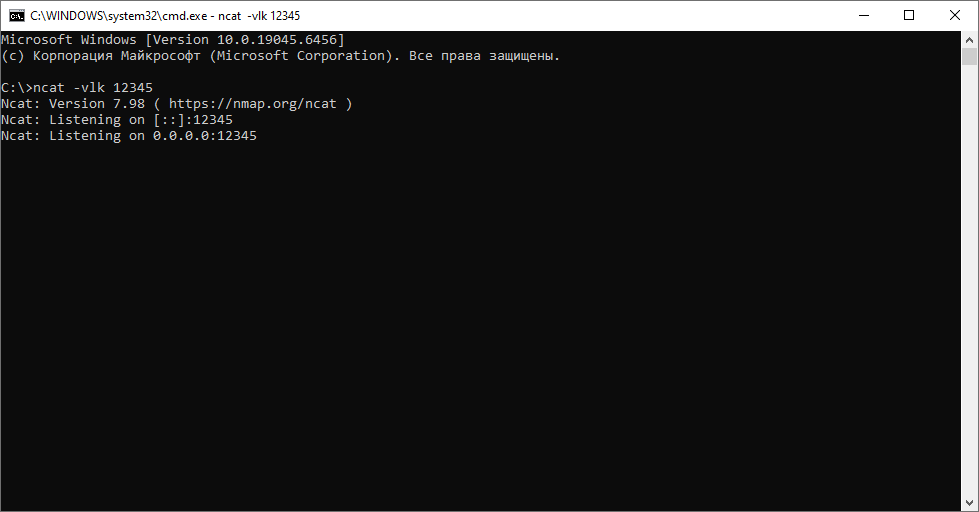
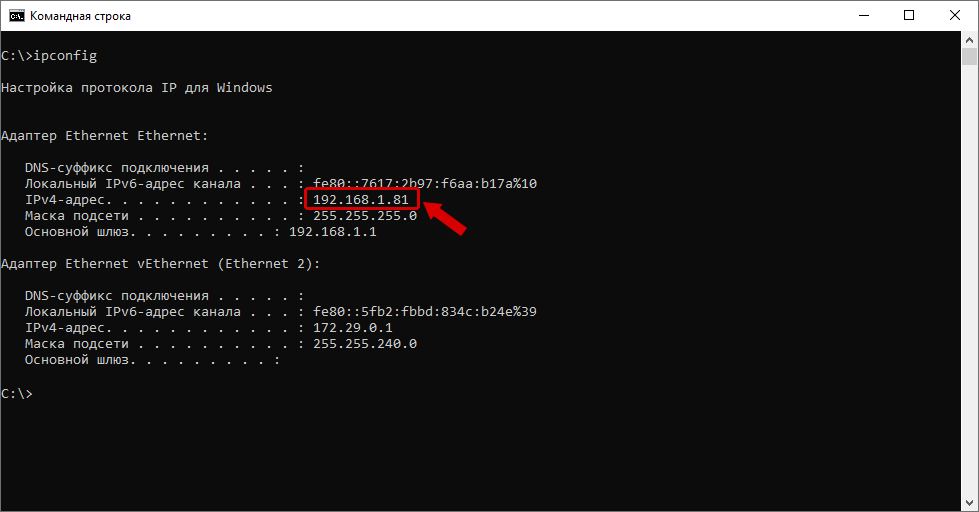
feat: 3.1 wi-fi - images

diff --git a/3.1. Wi-Fi/readme.md b/3.1. Wi-Fi/readme.md
@@ -476,7 +476,7 @@ nc -vlk 12345
 ``` bash
 ncat -vlk 12345
 ```
-![Запуск TCP-сервера Ncat в Windows](img/windows_ncat_listen.png)
+![Запуск TCP-сервера Ncat в Windows](img/windows_ncat.png)
 
 
 Будет запущен TCP-сервер, ожидающий подключения на порту `12345`.
@@ -486,7 +486,7 @@ ncat -vlk 12345
 ``` text
 Hello from ESP32
 ```
-![Получение сообщения от ESP32 в Ncat](img/windows_ncat_hello.png)
+![Получение сообщения от ESP32 в Ncat](img/windows_ncat_listner.png)
 
 
 ### Вариант со смартфоном Android
@@ -495,7 +495,7 @@ Hello from ESP32
 
 **Netcat for Android**
 
-![Запуск Ncat на Android](img/android_ncat.png)
+![Запуск Ncat на Android](img/android_netcat.png)
 
 **NetPal**
 
